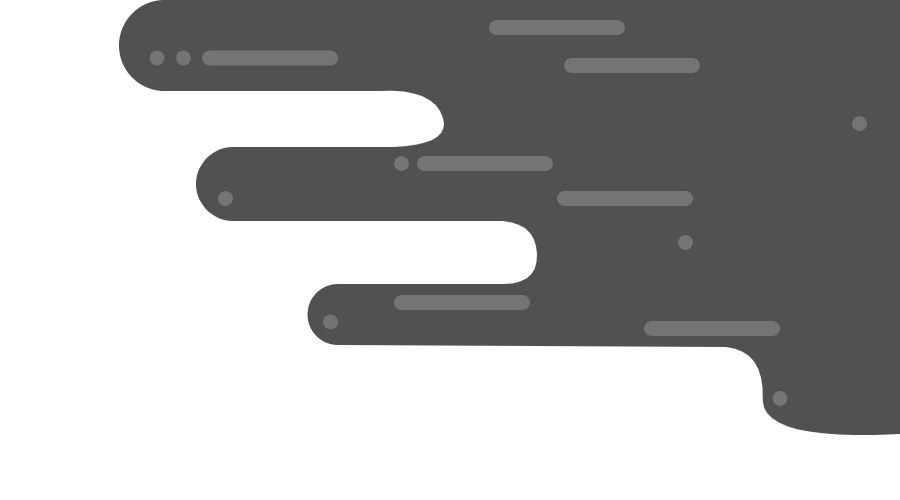
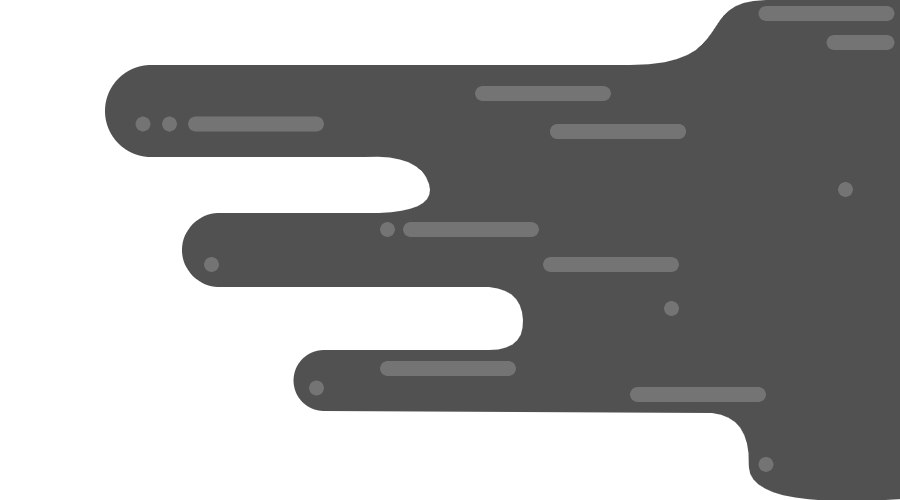
update

diff --git a/src/frontend/html/pages/about/about.html b/src/frontend/html/pages/about/about.html
@@ -1,0 +1,50 @@
+<div id='about'>
+    <link rel="stylesheet" type="text/css" href="css/styles/about/index.css">
+    <div id='sections' class='content'>
+        <section>
+            <h3>Company</h3>
+            <div class='cards-container'>
+                <div class='card active-card'>
+                    <span class='dot primary-light'></span>
+                    <a href='#' link='about/pages/bolix'>What is BOLIX?</a>
+                </div>
+                <div class='card active-card'>
+                    <span class='dot primary-light'></span>
+                    <a href='#'>How do I register?</a>
+                </div>
+                <div class='card active-card'>
+                    <span class='dot primary-light'></span>
+                    <a href='#'>Test</a>
+                </div>
+            </div>
+        </section>
+        <hr>
+        <section>
+            <h3>website</h3>
+            <div class='cards-container'>
+                <div class='card active-card'>
+                    <span class='dot primary-light'></span>
+                    <a href='#'>Test</a>
+                </div>
+                <div class='card active-card'>
+                    <span class='dot primary-light'></span>
+                    <a href='https://github.com/dsal3389/bolix' target='blank'>Code (github)</a>
+                </div>
+                <div class='card active-card'>
+                    <span class='dot primary-light'></span>
+                    <a href='https://material.io/design/' target='blank'>Design rules (material)</a>
+                </div>
+            </div>
+        </section>
+        <div id='min-about'>
+            <h2>About</h2>
+            <div class='markdown'>
+                <p>
+                    bolix is an online banking system that allowes you to keep track on your money<br>
+                    we grantee <span><code>99%</code></span> security, why <span><code>99%</code></span>? because nothing is <span><code>100%</code></span> securie, if someone says<br>
+                    <span><code>100%</code></span> securie he is laying, but we keep it real with our coustomers / future coustomers
+                </p>
+            </div>
+        </div>
+    </div>
+</div>

diff --git a/src/frontend/html/pages/home.html b/src/frontend/html/pages/home.html
@@ -7,8 +7,8 @@
         <div id='banner-text'>
             <h1 class='header-l3'>BOLIX</h1>
             <div id='banner-btns'>
-                <a href='#' link='about' class='rounded-btn primary-light m-shd-l1'>About</a>
-                <a href='#' link='about' class='rounded-btn accent-light m-shd-l1'>Register</a>
+                <a href='#' link='about/about' class='rounded-btn primary-light m-shd-l1'>About</a>
+                <a href='#' link='404' class='rounded-btn accent-light m-shd-l1'>Register</a>
             </div>
         </div>
     </div>
@@ -19,7 +19,7 @@
                 <div class='markdown'>
                     <p>
                         <span><code>BOLIX</code></span> is an online bank account that lets you keep track on your money.<br>
-                        
+                        to learn more go to the <span><code>about</code></span>
                     </p>
                 </div>    
             </section>
@@ -27,10 +27,14 @@
             <section>
                 <h1 class='header-l2'>About the website</h1>
                 <div class='markdown'>
-                    <p>this website is written in <span><code>js</code></span></p>
-                    <blockquote>
-                        <p>Hello world</p>
-                    </blockquote>
+                    <p>this website is written in:</p>
+                    <p><span><code>js</code></span></p>
+                    <p><span><code>HTML5</code></span></p>
+                    <p><span><code>CSS3</code></span></p>
+                    <hr>
+                    <h3>requirements:</h3>
+                    <p><span><code>nodejs</code></span></p>
+                    <p><span><code>browser</code></span></p>
                 </div>    
             </section>
         </div>

diff --git a/src/frontend/js/index.js b/src/frontend/js/index.js
@@ -1,47 +1,11 @@
-$(document).ready(function(){
-    const main = $('main');
-    var lastFile = null;
+const nav = $('#main-nav');
+const classes = 'nav-active m-shd-l2 primary'
 
-    setListeners = (elements) => {
-        $.each(elements, (event) => {
-            const element = elements[event];
-            const elementEvents = $._data(element, 'events');
-
-            if(!elementEvents)
-                $(element).on('click', (event) => {
-                    let link = $(event.target);
-                    load(link.attr('link'));
-                });
-        });
-    };
-
-    clearLiseners = (elements) => {
-        elements.off();
-    };
-
-    load = (link) => {
-        const path = "html/pages/" +link +'.html';
-
-        if(path == lastFile) // do not send request again if link alread loaded
-            return;
-        lastFile = path;
-
-        clearLiseners($('main a'));
-        return $.ajax({
-            url: path, 
-            success: (res) =>  {
-                main.html($(res));
-                setListeners($('a'));
-            },
-            statusCode: {
-                404: () => load('404') // load 404.html page
-            }
-        });
-    };
-
-    setListeners($('a'));
-    load('home'); // load home on init
-});
-
-
+$(window).on('scroll', (event) => {
+    //console.log(window.scrollY);
+    if(window.scrollY > 0)
+        nav.addClass(classes);
+    else
+        nav.removeClass(classes);
+})
 

diff --git a/src/frontend/js/main.js b/src/frontend/js/main.js
@@ -1,0 +1,50 @@
+$(document).ready(function(){
+    const main = $('main');
+    var lastFile = null;
+
+    setListeners = (elements) => {
+        $.each(elements, (event) => {
+            const element = elements[event];
+            const elementEvents = $._data(element, 'events');
+
+            if(!elementEvents)
+                $(element).on('click', (event) => {
+                    let link = $(event.target);
+                    let attr = link.attr('link');
+                    
+                    if(attr != undefined)
+                        load(attr);
+                });
+        });
+    };
+
+    clearLiseners = (elements) => {
+        elements.off();
+    };
+
+    load = (link) => {
+        const path = "html/pages/" +link +'.html';
+
+        if(path == lastFile) // do not send request again if link alread loaded
+            return;
+        lastFile = path;
+
+        clearLiseners($('main a'));
+        return $.ajax({
+            url: path, 
+            success: (res) =>  {
+                main.html($(res));
+                setListeners($('a'));
+            },
+            statusCode: {
+                404: () => load('404') // load 404.html page
+            }
+        });
+    };
+
+    setListeners($('a'));
+    load('home'); // load home on init
+});
+
+
+

diff --git a/src/frontend/html/index.html b/src/frontend/html/index.html
@@ -2,22 +2,26 @@
 <html>
     <head>
         <title>BOLIX</title>
+        <meta name="viewport" content="width=device-width, initial-scale=1">
         <link rel="stylesheet" type="text/css" href="css/global.css">
         <link rel="stylesheet" type="text/css" href="css/markdown.css">
         <link rel="stylesheet" type="text/css" href="css/index.css">
         <script src='js/external/jquery.min.js'></script>
     </head>
     <body>
-        <div id='main-nav' class='m-shd-l2 primary'>
-            <h1>BOLIX</h1>
+        <div id='main-nav'>
+            <h1 id='nav-header'>
+                <a href='#' link='home'>BOLIX</a>
+            </h1>
             <div id='nav-links'>
-                <a href='#' link='home' class='pg-nav-lnk'>home</a>
+                <a href='#' link='about/about' class='pg-nav-lnk'>about</a>
                 <a href='#' link='test' class='pg-nav-lnk'>test</a>
             </div>
         </div>
         <main>
             <!-- content is displayed here -->
         </main>
+        <script src='js/main.js'></script>
         <script src='js/index.js'></script>
     </body>
 </html>

diff --git a/src/frontend/css/global.css b/src/frontend/css/global.css
@@ -24,11 +24,12 @@
 body{
     margin: 0;
     overflow-x: hidden;
-    font-family: Arial
+    font-family: Arial;
+    scroll-behavior: smooth;
 }
 
 a{
-    color: lightblue;
+    color: #7ec0f7;
 }
 
 h1, h2, h3, h4, h5, h6{
@@ -38,6 +39,12 @@ h1, h2, h3, h4, h5, h6{
 button, .btn, .rounded-btn{
 	font-weight: 700;
 	font-size: 18px
+}
+
+hr{
+    margin: 20px -16px;
+    border: 0;
+    border-top: 1px solid #eee;
 }
 
 .primary-dark{
@@ -74,7 +81,7 @@ button, .btn, .rounded-btn{
     box-shadow: 0 1px 3px rgba(0,0,0,0.12), 0 1px 2px rgba(0,0,0,0.24);
 }
 
-.m-shd-l2{
+.m-shd-l2, .active-card:hover{
     box-shadow: 0 3px 6px rgba(0,0,0,0.16), 0 3px 6px rgba(0,0,0,0.23);
 }
 
@@ -104,4 +111,17 @@ button, .btn, .rounded-btn{
     padding: 30px;
     border-radius: 5px;
     box-shadow: 0 1px 3px rgba(0,0,0,0.12), 0 1px 2px rgba(0,0,0,0.24);
+    min-width: 300px;
+    box-sizing: border-box;
+    transition-duration: 250ms;
+}
+
+.content{
+    padding: 30px;
+}
+
+@media(max-width: 600px){
+    .content, .card{
+        padding: 16px;;
+    }
 }

diff --git a/src/frontend/css/styles/about/index.css b/src/frontend/css/styles/about/index.css
@@ -1,0 +1,45 @@
+
+#sections section h3{
+    margin-left: 30px;
+}
+
+#min-about{
+    margin: auto;
+    max-width: 700px;
+    width: 100%;
+    text-align: center;
+}
+
+.cards-container{
+    display: flex;
+    flex-wrap: wrap;
+    justify-content: space-around;
+    max-width: 920px;
+    margin: auto;
+}
+
+.cards-container .card{
+    cursor: pointer;
+    padding: 16px;
+    margin: 8px 0;
+}
+
+.cards-container .card a{
+    color: #333;
+    text-decoration: none;
+    width: 100%;
+    height: 100%;
+}
+
+.dot{
+    height: 16px;
+    width: 16px;
+    border-radius: 50px;
+    float: left;
+    margin-right: 4px;
+    display: none;
+}
+
+.cards-container .card:hover .dot{
+    display: block;
+}

diff --git a/src/frontend/css/index.css b/src/frontend/css/index.css
@@ -5,11 +5,18 @@
     top: 0;
     padding: 0 16px;
     z-index: 10000;
+    position: fixed;
+    height: 61px;
+    transition-duration: 300ms;
 }
 
-#main-nav h1{
+#nav-header{
     margin: 12px 0;
-    color: #fff;
+}
+
+#nav-header a{
+    text-decoration: none;
+    color: #333;
 }
 
 #nav-links{
@@ -19,9 +26,21 @@
 
 #nav-links a{
     margin-left: 16px;
-    color: white;
     text-decoration: none;
     padding: 6px;
     border-radius: 4px;
     transition-duration: 120ms;
+    color: #333;
+}
+
+.nav-active > #nav-header a, .nav-active > #nav-links a{
+    color: #fff;
+}
+
+main{
+    position: absolute;
+    top: 61px;
+    bottom: 0;
+    right: 0;
+    left: 0;
 }

diff --git a/src/frontend/css/styles/home.css b/src/frontend/css/styles/home.css
@@ -12,6 +12,7 @@
 }
 
 #bg-img{
+    top: -61px;
     right: 0;
     z-index: -1;
 }

diff --git a/src/frontend/css/markdown.css b/src/frontend/css/markdown.css
@@ -29,3 +29,4 @@
 .markdown pre code{
     white-space: pre;
 }
+

diff --git a/src/frontend/html/pages/about/pages/bolix.html b/src/frontend/html/pages/about/pages/bolix.html
@@ -1,0 +1,3 @@
+<div>
+    this is about bolix
+</div>
